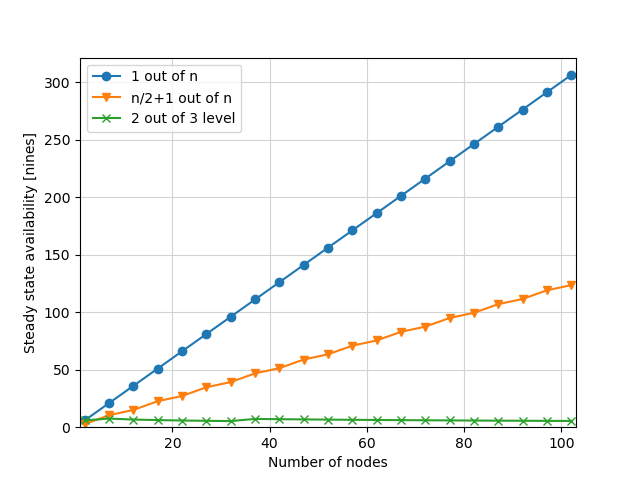
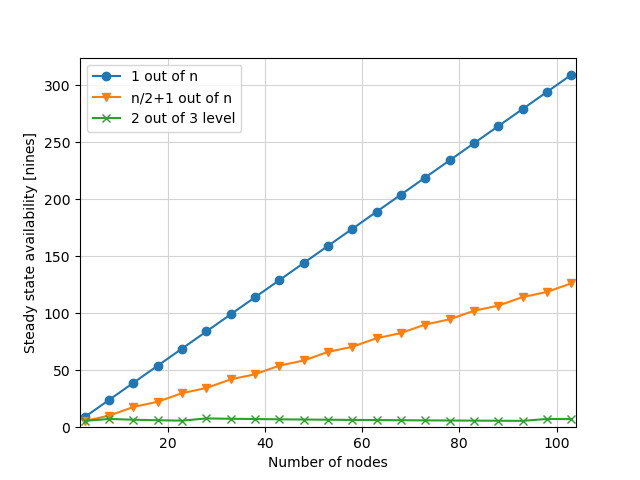
Vertical Line at 0.5 intersection added

diff --git a/functions.py b/functions.py
@@ -10,6 +10,8 @@ from functools import reduce
 MINN=3
 MAXN=100
 STEP=5
+FAILURE_RATE=0.001
+REPAIR_RATE=1.0
 
 def nck(n, k): #Fast C implementation of n choose k
     r = min(k, n-k)
@@ -23,14 +25,14 @@ def gen_const_m(x):
         return x
     return f
 
-def reliability(m,n,rate=0.001):
+def reliability(m,n,rate=FAILURE_RATE):
     def f(t): #Calculates the reliability of an m out of n system after time t
         p=math.exp(-rate*t)
         return 1-binom.cdf(m-1,n,p)
     return f
 
 
-def log_availability_iterative(g,lam=0.001,mu=1.0):
+def log_availability_iterative(g,lam=FAILURE_RATE,mu=REPAIR_RATE):
     r=lam/mu
     p=r/(1+r)
     def f(n): #Calculates the steady-state availability of a g(n) out of n system, returns it in the nines (-log10(1-x)) metric
@@ -41,7 +43,7 @@ def log_availability_iterative(g,lam=0.001,mu=1.0):
         return nines
     return f
 
-def availability_iterative(g,lam=0.001,mu=1.0):
+def availability_iterative(g,lam=FAILURE_RATE,mu=REPAIR_RATE):
     r=lam/mu
     p=r/(1+r)
     def f(n):
@@ -63,7 +65,7 @@ def find_linear(use_log=False, start=MINN, finish=MAXN, benchmark_m=2, benchmark
             if(avail>goal and avail<v):
                 v=avail
                 a[i]=j
-        print(f"{a[i]} out of {i}")
+        #print(f"{a[i]} out of {i}")
 
     def g(n):
         return a[n]
@@ -91,7 +93,7 @@ if __name__=="__main__":
 
 """ UNUSED """
 
-def availability(g,lam=0.001,mu=1.0): #Doesn't work for large n-s, because binom.cdf has limited precision
+def availability(g,lam=FAILURE_RATE,mu=REPAIR_RATE): #Doesn't work for large n-s, because binom.cdf has limited precision
     r=lam/mu
     p=r/(1+r)
     def f(n):
@@ -99,7 +101,7 @@ def availability(g,lam=0.001,mu=1.0): #Doesn't work for large n-s, because binom
     return f
 
 
-def log_availability(g,lam=0.001,mu=1.0): #Doesn't work for large n-s, because binom.cdf has limited precision
+def log_availability(g,lam=FAILURE_RATE,mu=REPAIR_RATE): #Doesn't work for large n-s, because binom.cdf has limited precision
     r=lam/mu
     p=r/(1+r)
     def f(n): #Calculates the steady-state availability of a g(n) out of n system, returns it in the nines (-log10(1-x)) metric

diff --git a/plots.py b/plots.py
@@ -11,6 +11,11 @@ def create_reliability_plot():
     plt.plot(x, gen_y(reliability(1,5),x),label='1 out of 5',marker="x") 
     plt.plot(x, gen_y(reliability(2,3),x),label='2 out of 3',marker="s") 
     plt.plot(x, gen_y(reliability(3,5),x),label='3 out of 5',marker="*")
+    #plt.plot(x, gen_y(reliability(3,5),x),label='3 out of 5',marker="*")
+    #plt.plot(x, gen_y(reliability(4,7),x),label='3 out of 5',marker="*")
+    #plt.plot(x, gen_y(reliability(5,9),x),label='3 out of 5',marker="*")
+    #plt.plot(x, gen_y(reliability(6,11),x),label='7 out of 15',marker="*")
+    plt.axvline(x=math.log(2)/FAILURE_RATE, color='k', linestyle='--')
     plt.yticks(np.linspace(0,1,11))
     plt.grid(color='lightgrey')
     plt.ylabel("Reliability")
